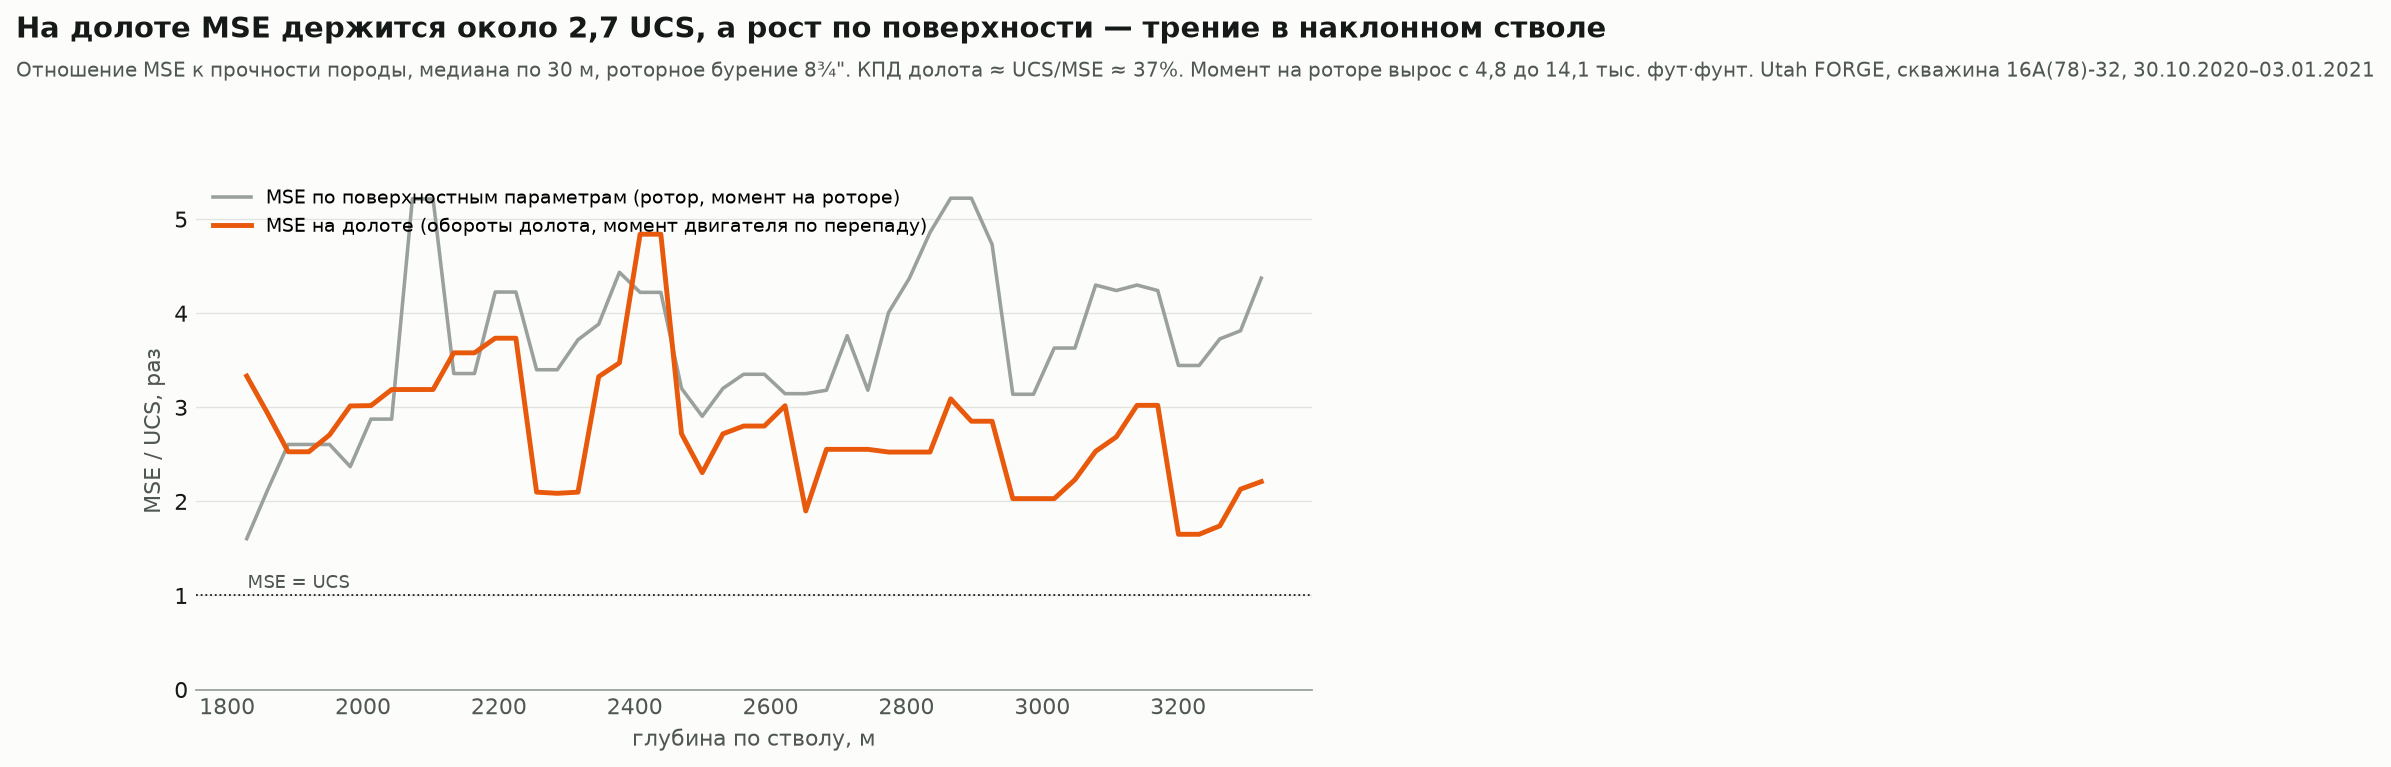
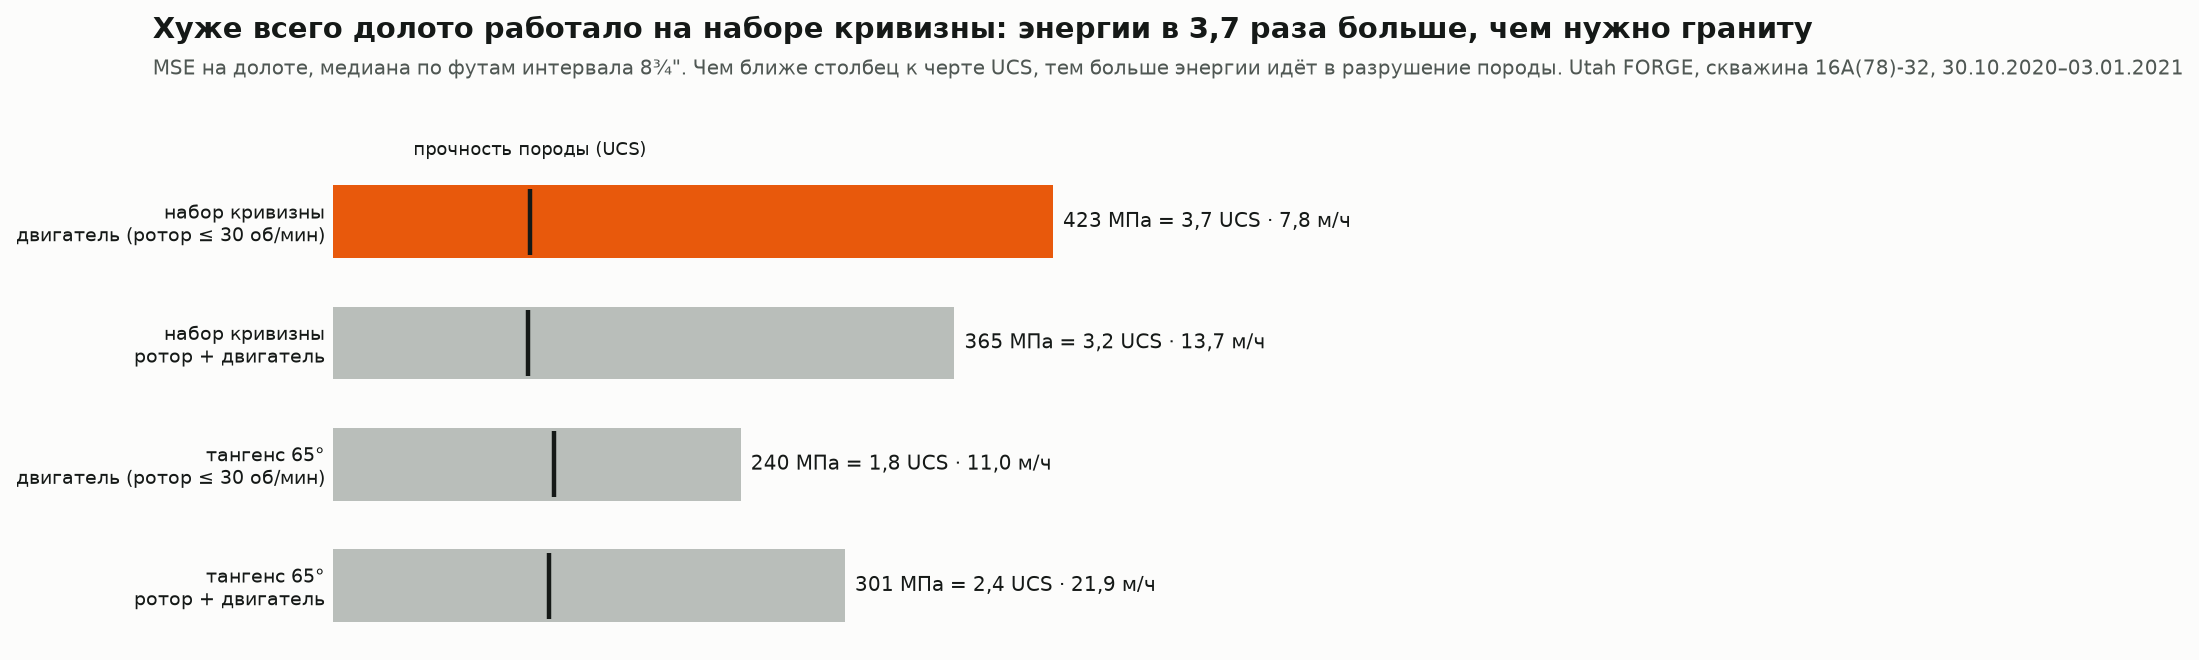
Кейс FORGE: MSE через режимы и UCS, наращивания по этапам, керн, конкретные мероприятия

diff --git a/src/forge/figures.py b/src/forge/figures.py
@@ -129,25 +129,37 @@ def bit14():
     save(fig, "05_bit14")
 
 
-def mse():
+PSI_MPA = 0.006895
+
+
+def bit_energy():
+    """MSE на долоте и UCS по каждому футу интервала 8¾" (ниже 6000 фут по стволу)."""
     f = pd.read_parquet(ROOT / "data/feet.parquet")
     g = pd.read_parquet(ROOT / "data/geomech.parquet")
     f["ucs"] = f.ft.map(g.groupby(np.floor(g.md)).ucs_psi.mean())
-    f = f[(f.ft >= 6000) & (f.rpm > 30) & f.ucs.notna()].copy()
-    f["r_surf"], f["r_bit"] = f.mse / f.ucs, f.mse_bit / f.ucs
-    f["bin"] = (f.ft // 100) * 100
-    a = f.groupby("bin")[["r_surf", "r_bit", "tq"]].median().rolling(3, center=True, min_periods=1).median()
-    fig, ax = plt.subplots(figsize=(9, 4.2))
-    ax.plot(a.index * .3048, a.r_surf, color=GREY, lw=1.6, label="MSE по поверхностным параметрам (ротор, момент на роторе)")
-    ax.plot(a.index * .3048, a.r_bit, color=ACCENT, lw=2.2, label="MSE на долоте (обороты долота, момент двигателя по перепаду)")
-    ax.axhline(1, color=INK, lw=.8, ls=":")
-    ax.text(1830, 1.08, "MSE = UCS", fontsize=8, color=INK2)
-    ax.set_ylim(0, 5.5); ax.set_xlabel("глубина по стволу, м"); ax.set_ylabel("MSE / UCS, раз")
-    ax.grid(axis="y", color=LIGHT, lw=.6); ax.legend(fontsize=8.5, loc="upper left")
-    med_bit = f.r_bit.median()
-    head(fig, f"На долоте MSE держится около {n(med_bit, 1)} UCS, а рост по поверхности — трение в наклонном стволе",
-         f"Отношение MSE к прочности породы, медиана по 30 м, роторное бурение 8¾\". КПД долота ≈ UCS/MSE ≈ {n(100 / med_bit)}%. Момент на роторе вырос "
-         f"с {n(a.tq.iloc[0] / 1000, 1)} до {n(a.tq.iloc[-1] / 1000, 1)} тыс. фут·фунт. {SRC}")
+    f = f[(f.ft >= 6000) & f.ucs.notna() & f.mse_bit.notna()].copy()
+    f["zone"] = np.where(f.ft < 8020, "набор кривизны", "тангенс 65°")
+    f["mode"] = np.where(f.rpm > 30, "ротор + двигатель", "двигатель (ротор ≤ 30 об/мин)")
+    return f
+
+
+def mse():
+    f = bit_energy()
+    t = f.groupby(["zone", "mode"]).agg(mse=("mse_bit", "median"), ucs=("ucs", "median"), rop=("rop", "median"), n=("ft", "size"))
+    t[["mse", "ucs"]] *= PSI_MPA
+    t = t.iloc[::-1]
+    fig, ax = plt.subplots(figsize=(9, 3.9))
+    y = np.arange(len(t))
+    worst = t.mse.idxmax()
+    ax.barh(y, t.mse, color=[ACCENT if i == worst else CALM for i in t.index], height=.6)
+    ax.scatter(t.ucs, y, marker="|", s=900, color=INK, lw=2, zorder=3)
+    for i, (k, r) in enumerate(t.iterrows()):
+        ax.text(r.mse + 6, i, f"{n(r.mse)} МПа = {n(r.mse / r.ucs, 1)} UCS · {n(r.rop * .3048, 1)} м/ч", va="center", fontsize=9, color=INK)
+    ax.text(t.ucs.iloc[-1], len(t) - .45, "прочность породы (UCS)", fontsize=8, color=INK, ha="center")
+    ax.set_yticks(y, [f"{z}\n{m}" for z, m in t.index], fontsize=8.5)
+    ax.set_xlim(0, t.mse.max() * 1.55); ax.set_xticks([]); ax.spines["bottom"].set_visible(False)
+    head(fig, f"Хуже всего долото работало на наборе кривизны: энергии в {n(t.loc[worst].mse / t.loc[worst].ucs, 1)} раза больше, чем нужно граниту",
+         f"MSE на долоте, медиана по футам интервала 8¾\". Чем ближе столбец к черте UCS, тем больше энергии идёт в разрушение породы. {SRC}")
     save(fig, "06_mse")
 
 
@@ -170,7 +182,7 @@ def connections():
 def geomech():
     g = pd.read_parquet(ROOT / "data/geomech.parquet").iloc[::5]
     r = json.load(open(ROOT / "out/geomech.json"))
-    fig, (ax, ax2) = plt.subplots(1, 2, figsize=(9, 4.6), sharey=True, gridspec_kw={"width_ratios": [3, 1.3]})
+    fig, (ax, ax2, ax3) = plt.subplots(1, 3, figsize=(10, 4.8), sharey=True, gridspec_kw={"width_ratios": [3, 1.1, 2]})
     y = g.md * .3048
     ax.fill_betweenx(y, r["pp_ppg"], r["shmin_dfit_ppg"][0], color=LIGHT, lw=0)
     ax.plot(g.pp_ppg, y, color=INK2, lw=1.2, label="поровое давление")
@@ -182,8 +194,15 @@ def geomech():
     ax.legend(fontsize=7.5, loc="upper center", bbox_to_anchor=(.6, -.13), ncol=2)
     ax2.plot(g.enl, y, color=INK2, lw=.8)
     ax2.axvline(0, color=ACCENT, lw=1.2); ax2.set_xlabel("каверна, дюйм"); ax2.set_xlim(-.6, 1.2)
-    head(fig, f"Окно плотности широкое, ствол устойчив: {n(r['in_gauge'] * 100)}% интервала в номинале",
-         f"Интервал 8¾\" 1 829–3 335 м. Напряжения и UCS — расчёт Schlumberger по акустике и плотности; DFIT и керн — 0,66–0,78 psi/ft. {SRC}")
+    e = bit_energy()
+    e = e[e["mode"].str.startswith("ротор")].assign(bin=lambda d: (d.ft // 100) * 100).groupby("bin")[["mse_bit", "ucs"]].median().rolling(3, center=True, min_periods=1).median() * PSI_MPA
+    ax3.fill_betweenx(e.index * .3048, e.ucs, e.mse_bit, color="#fbe3d4", lw=0)
+    ax3.plot(e.ucs, e.index * .3048, color=INK, lw=1.4, label="прочность UCS")
+    ax3.plot(e.mse_bit, e.index * .3048, color=ACCENT, lw=1.8, label="MSE на долоте (ротор)")
+    ax3.axhline(8020 * .3048, color=GREY, lw=.8, ls=":"); ax3.text(690, 8020 * .3048 - 15, "конец набора кривизны", ha="right", fontsize=7.5, color=INK2)
+    ax3.set_xlabel("МПа, медиана по 30 м"); ax3.set_xlim(0, 700); ax3.legend(fontsize=7.5, loc="lower center", bbox_to_anchor=(.5, -.3))
+    head(fig, f"Ствол устойчив ({n(r['in_gauge'] * 100)}% в номинале), резерв — в режиме: в тангенсе MSE ближе к прочности гранита",
+         f"Интервал 8¾\" 1 829–3 335 м. Справа заливка — энергия сверх прочности породы. Напряжения и UCS — Schlumberger, DFIT, керн. {SRC}")
     save(fig, "08_geomech")
 
 
